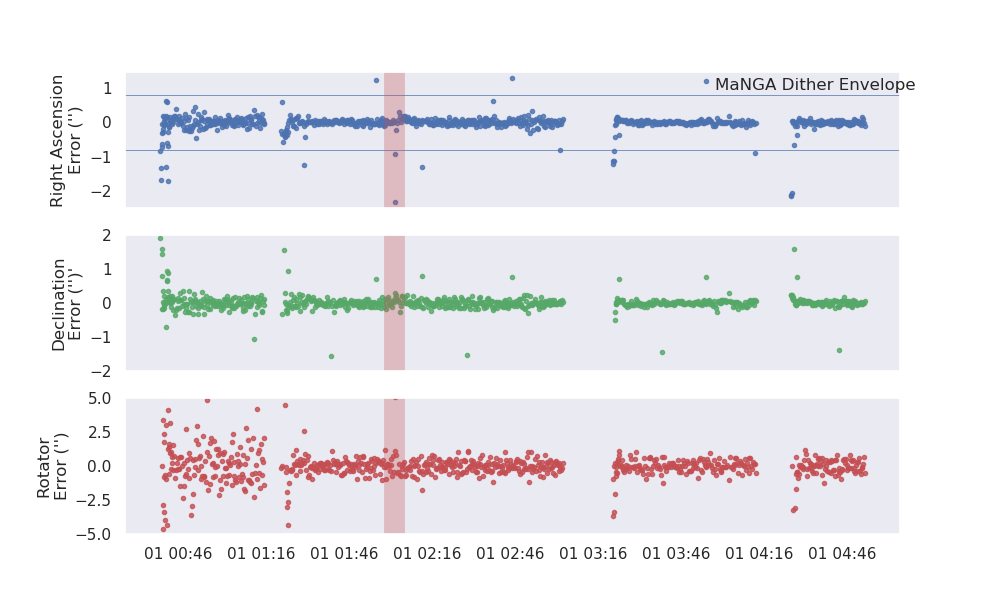
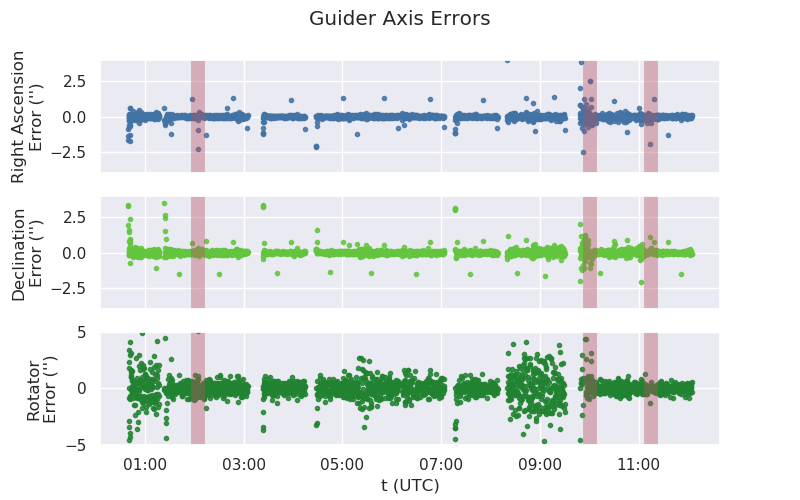
Updated plot for entire night on Halloween

diff --git a/guider_issues/guider_plotting.py b/guider_issues/guider_plotting.py
@@ -1,30 +1,43 @@
 import matplotlib.pyplot as plt
+import matplotlib as mpl
 import numpy as np
 import seaborn as sns
 from astropy.time import Time
-sns.set(style='dark')
+sns.set(style='darkgrid')
 
 ra = np.load('ra.npy')
 dec = np.load('dec.npy')
 rot = np.load('rot.npy')
 times = Time(np.load('times.npy'))
-print(times)
-filter = ra > -50000
+# print(times)
+good_exposures = ra > -50000
 
-fig, axs = plt.subplots(3, 1, sharex=True, figsize=(10, 6))
+fig, axs = plt.subplots(3, 1, sharex=True, figsize=(8, 5))
 raax, decax, rotax = axs
-raax.plot_date(times.plot_date[filter], ra[filter]*3600, alpha=0.8, c='b', markersize=3)
+raax.plot_date(times.plot_date[good_exposures], ra[good_exposures] * 3600,
+               alpha=0.85, c=(0.257, 0.451, 0.644), markersize=3)
+raax.set_ylim(-4, 4)
 raax.set_ylabel("Right Ascension\nError ('')")
-raax.axhline(-0.8, linewidth=0.5)
-raax.axhline(0.8, linewidth=0.5)
-raax.annotate('MaNGA Dither Envelope', (Time('2019-11-01 04:00').plot_date, 0.95))
-raax.axvline(Time('2019-11-01 02:04:00').plot_date, c='r', alpha=0.3, linewidth=15)
-decax.plot_date(times.plot_date[filter], dec[filter]*3600, alpha=0.8, c='g', markersize=3)
-decax.set_ylim(-2, 2)
-decax.set_ylabel("Declination\nError ('')'")
-decax.axvline(Time('2019-11-01 02:04:00').plot_date, c='r', alpha=0.3, linewidth=15)
-rotax.plot_date(times.plot_date[filter], rot[filter]*3600, alpha=0.8, c='r', markersize=3)
+# raax.axhline(-0.8, linewidth=0.5)
+# raax.axhline(0.8, linewidth=0.5)
+# raax.annotate('MaNGA Dither Envelope', (Time('2019-11-01 04:00').plot_date, 0.95))
+
+decax.plot_date(times.plot_date[good_exposures], dec[good_exposures] * 3600,
+                alpha=0.85, c=(0.386, 0.773, 0.238), markersize=3)
+decax.set_ylim(-4, 4)
+decax.set_ylabel("Declination\nError ('')")
+
+
+rotax.plot_date(times.plot_date[good_exposures], rot[good_exposures] * 3600,
+                alpha=0.85, c=(0.128, 0.515, 0.193), markersize=3)
+rotax.xaxis.set_major_formatter(mpl.dates.DateFormatter('%H:%M'))
+rotax.set_xlabel('t (UTC)')
 rotax.set_ylim(-5, 5)
 rotax.set_ylabel("Rotator\nError ('')")
-rotax.axvline(Time('2019-11-01 02:04:00').plot_date, c='r', alpha=0.3, linewidth=15)
+
+for time in ['2019-11-01 02:04:00', '2019-11-1 10:01:00', '2019-11-1 11:15:00']:
+    raax.axvline(Time(time).plot_date, c=(0.700, 0.322, 0.386), alpha=0.4, linewidth=10)
+    decax.axvline(Time(time).plot_date, c=(0.700, 0.322, 0.386), alpha=0.4, linewidth=10)
+    rotax.axvline(Time(time).plot_date, c=(0.700, 0.322, 0.386), alpha=0.4, linewidth=10)
+fig.suptitle('Guider Axis Errors')
 fig.savefig('axes_errors.png')
